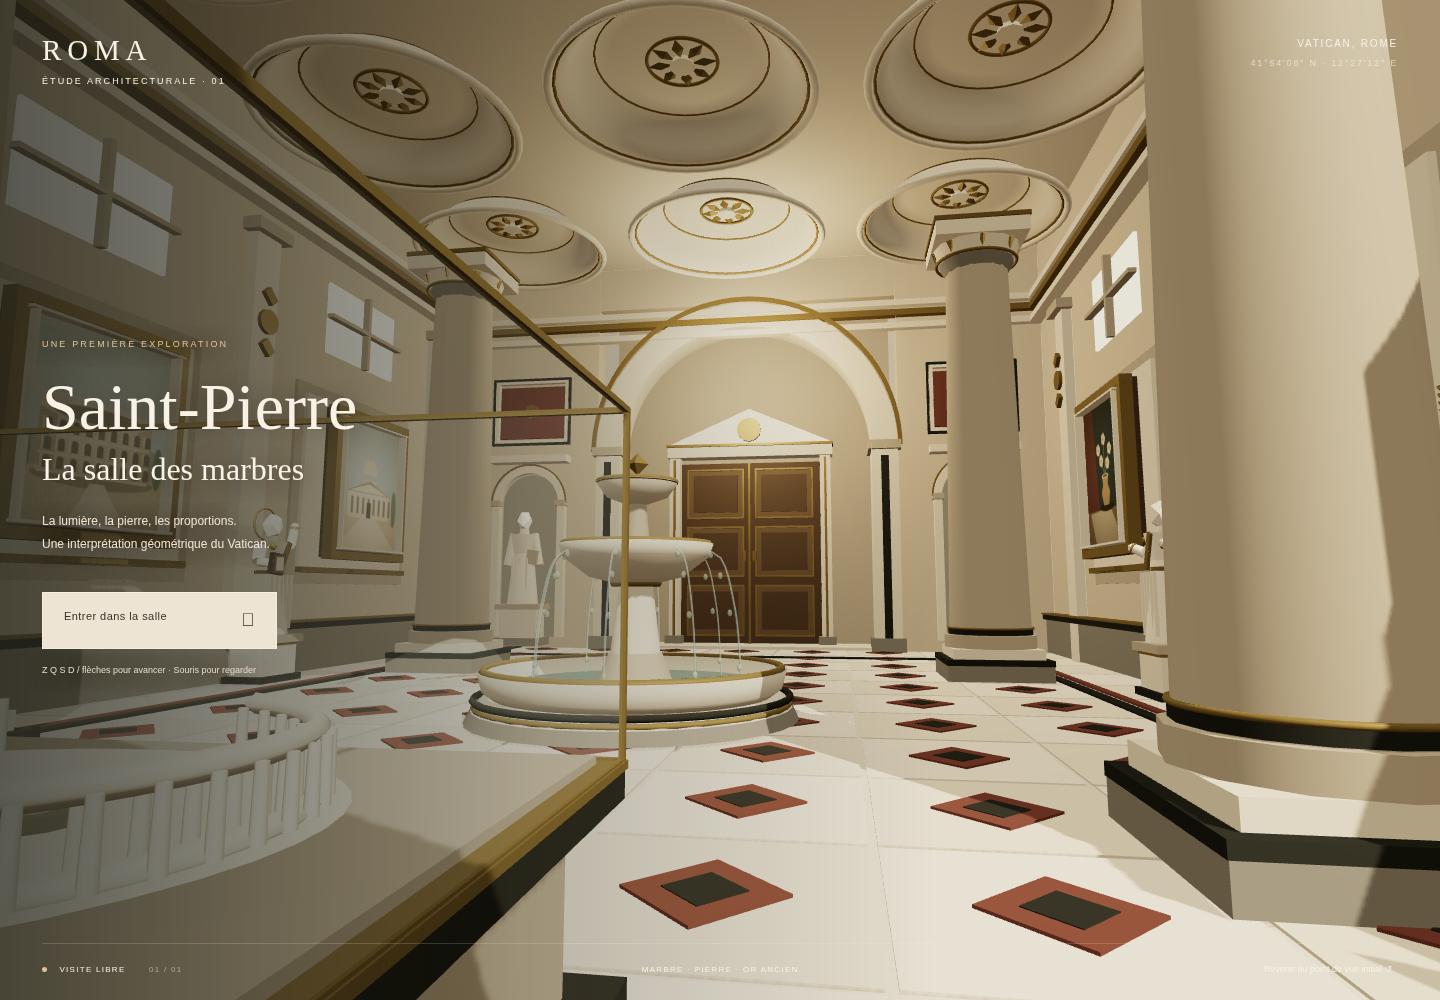
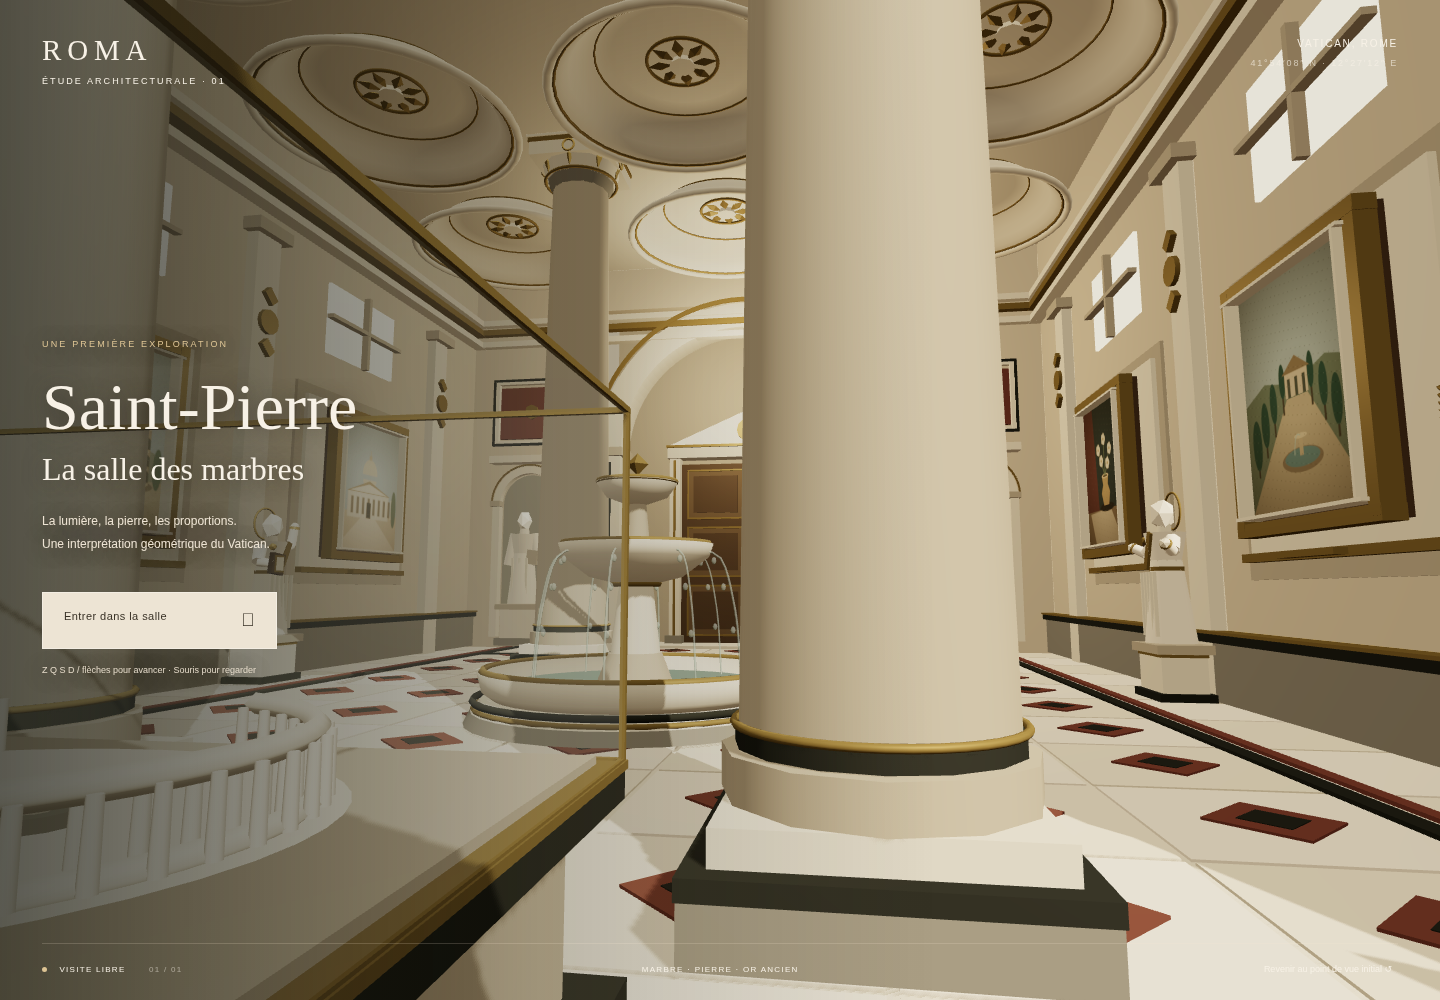
Align gilded columns with solid ceiling and clear gallery statues

diff --git a/src/main.js b/src/main.js
@@ -104,7 +104,25 @@ crown.position.set(0,6.47,-14.38);crown.castShadow=true;scene.add(crown);
 const seal=cylinder(.39,.39,.07,0,6.92,-14.1,gold,12);seal.rotation.x=Math.PI/2;
 // Quatre colonnes monumentales à fûts sobres et chapiteaux géométriques.
 const columns=[];
-for(const x of [-5.8,5.8])for(const z of [-6,5]){columns.push({x,z});box(1.95,.35,1.95,x,.2,z,gray);box(1.7,.25,1.7,x,.5,z,cream);cylinder(.9,.9,.25,x,.75,z,stone);cylinder(.64,.8,7.6,x,4.65,z,stone,16);cylinder(.78,.65,.24,x,8.55,z,gray);cylinder(.91,.77,.35,x,8.83,z,cream);box(1.85,.3,1.85,x,9.12,z,cream);box(1.9,.09,1.9,x,9.32,z,gold);}
+// Implantation aux croisements pleins des caissons : les chapiteaux évitent les creux.
+for(const x of [-3,3])for(const z of [-6,6]){
+  columns.push({x,z});
+  box(1.95,.35,1.95,x,.2,z,gray);box(1.7,.25,1.7,x,.5,z,cream);
+  cylinder(.9,.9,.25,x,.75,z,stone);
+  cylinder(.64,.8,10.1,x,5.9,z,stone,16);
+  cylinder(.78,.65,.24,x,11.05,z,gray);
+  cylinder(.91,.77,.35,x,11.33,z,cream);
+  box(1.85,.3,1.85,x,11.62,z,cream);
+  box(1.9,.09,1.9,x,11.82,z,gold);
+  const cap=box(1.96,.05,1.96,x,11.89,z,cream);cap.name='column-ceiling-cap';
+  // Petites volutes dorées sur les quatre faces du chapiteau.
+  for(let side=0;side<4;side++){
+    const angle=side*Math.PI/2;
+    const scroll=new THREE.Mesh(new THREE.TorusGeometry(.13,.026,6,16),gold);
+    scroll.position.set(x+Math.sin(angle)*.94,11.62,z+Math.cos(angle)*.94);
+    scroll.rotation.y=angle;scene.add(scroll);
+  }
+}
 // Pilastres, panneaux et moulures : détails réguliers sans sculptures complexes.
 for(const side of [-1,1]){for(const z of [-10,-3,4,11]){box(.28,9,.65,side*8.65,4.5,z,cream);box(.4,.25,.95,side*8.55,9,z,stone);}for(const z of [-6.5,.5,7.5]){box(.08,4.4,4.4,side*8.72,4.1,z,stone);box(.11,3.9,3.9,side*8.65,4.1,z,cream);box(.15,.12,4,side*8.56,2.2,z,gold);}box(.3,.9,26,side*8.67,.5,0,gray);}
 for(const y of [9.6,10,10.3]){box(18,.18,.3,0,y,-12.55,y===10?gold:cream);for(const side of [-1,1])box(.4,.18,26,side*8.6,y,0,y===10?gold:cream);}
@@ -358,10 +376,10 @@ for(const side of [-1,1])for(const z of [-10,-3,4,11]){
   for(const dy of [-.53,.53]){const leaf=box(.1,.31,.2,side*8.43,7.1+dy,z,gold);leaf.rotation.x=Math.PI/4;}
 }
 for(const c of columns){
-  ring(.82,.035,8.67,gold,c.x,c.z);
+  ring(.82,.035,11.17,gold,c.x,c.z);
   for(let i=0;i<8;i++){
     const a=i*Math.PI/4;const leaf=new THREE.Mesh(new THREE.OctahedronGeometry(.17),gold);
-    leaf.position.set(c.x+Math.cos(a)*.83,8.95,c.z+Math.sin(a)*.83);leaf.scale.set(.55,1.4,.55);scene.add(leaf);
+    leaf.position.set(c.x+Math.cos(a)*.83,11.45,c.z+Math.sin(a)*.83);leaf.scale.set(.55,1.4,.55);scene.add(leaf);
   }
 }
 

diff --git a/README.md b/README.md
@@ -73,3 +73,7 @@ Le panneau central du mur droit reçoit un jardin italien avec une allée de cyp
 ## Statues entre les tableaux
 
 Quatre statues ivoire ornées d'or ancien occupent les intervalles entre les tableaux (deux par mur, z = -3 et 4). Leurs poses sont différentes : livre et main levée, mains jointes, bras ouverts, palme et livre. Leurs socles sont placés contre les pilastres à x = ±8,05, hors de l'emprise des quatre colonnes. Des collisions rectangulaires tiennent compte des socles et des bras ; le passage devant les statues est vérifié. Aucun tableau n'est déplacé ou masqué.
+
+## Dégagement des colonnes
+
+Les quatre colonnes sont replacées à x = ±3, z = ±6, sous les croisements pleins entre les moulures concaves. Leurs chapiteaux rejoignent le plafond sans entrer dans les creux ; les colliers, feuilles et volutes utilisent l'or ancien existant. Cette implantation éloigne les colonnes des statues et conserve les dimensions de la salle. Les tests vérifient les collisions, l'écartement des statues et l'absence de recouvrement entre les chapiteaux et les moulures creusées.
